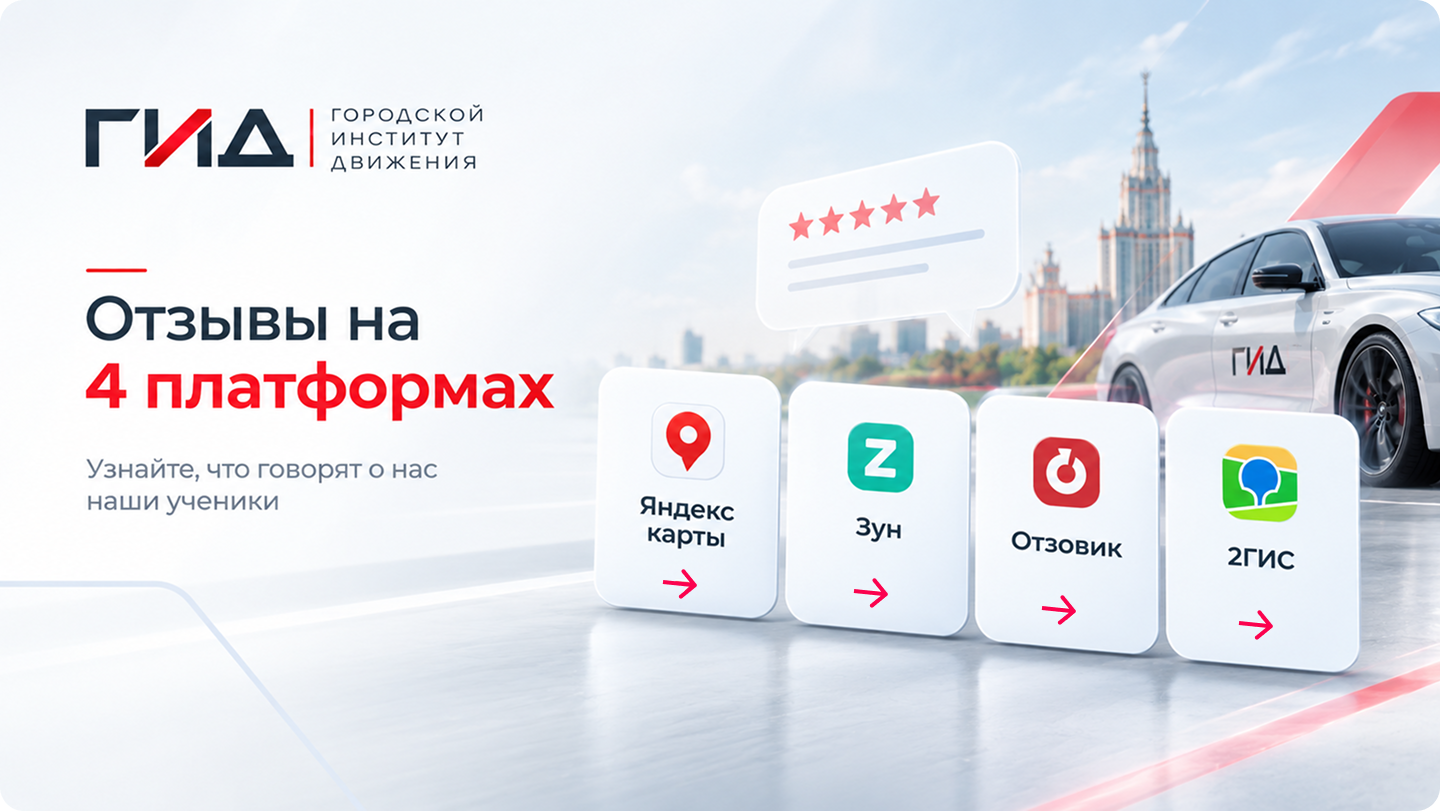
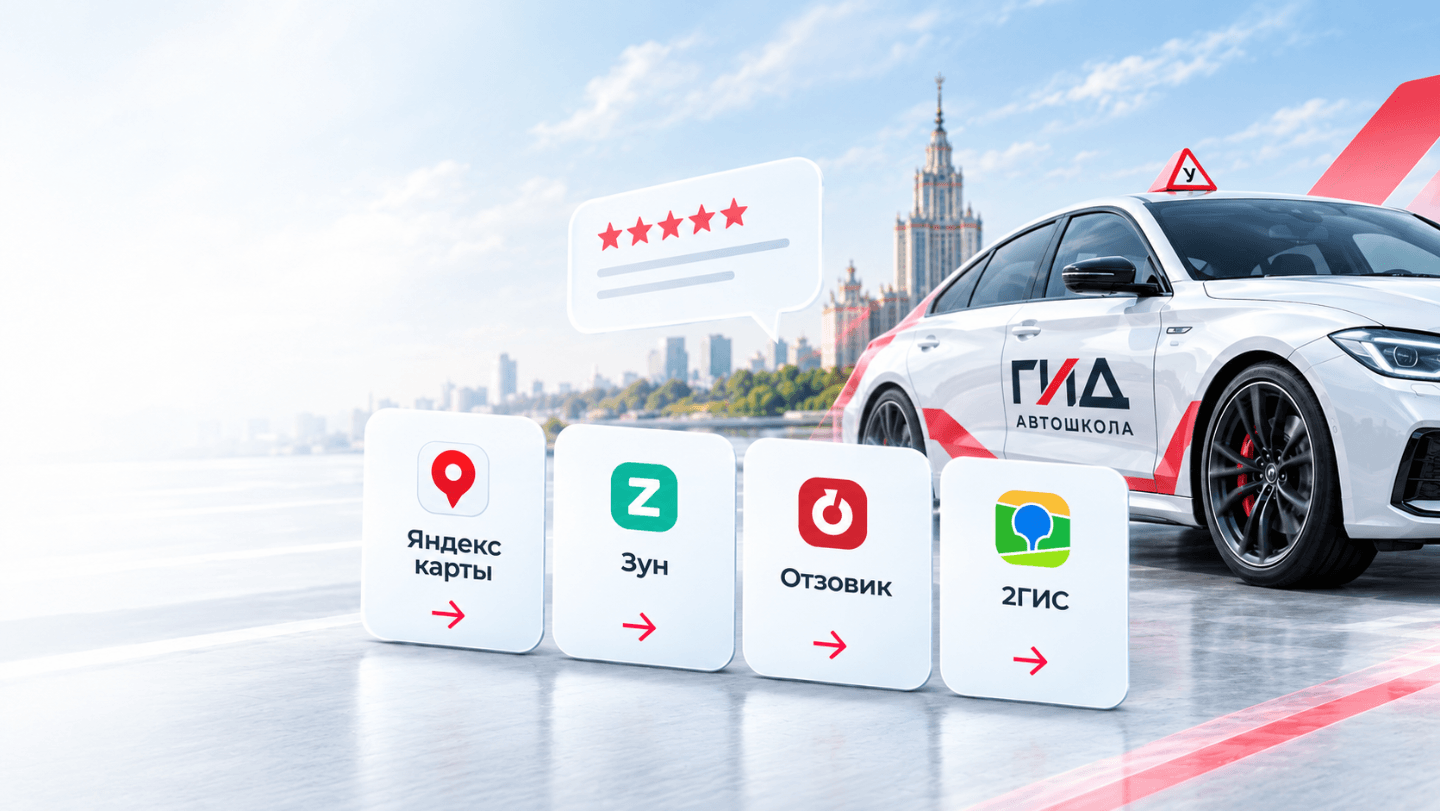
reload

diff --git a/index.html b/index.html
@@ -96,8 +96,18 @@
             </div>
           </div>
         </div>
-        <div class="ncontainer mb-100">
-          <div class="soc"></div>
+        <div class="soc-back mb-100">
+          <div class="ncontainer">
+            <div class="soc">
+              <div class="soc-img"><img src="images/logo-big.svg" alt="logo"></div>
+              <div class="soc-title">Подпишитесь на наши соц сети и получите <span>гарантированную скидку </span></div>
+              <div class="soc-btns"><a class="soc-btns__link" href="#"><img src="images/tg-icon.svg" alt="tg"><span>Telegram</span></a>
+                <div class="line"></div><a class="soc-btns__link" href="#"><img src="images/insta-icon.svg" alt="Instagram"><span>Instagram</span></a>
+                <div class="line"></div><a class="soc-btns__link" href="#"><img src="images/vk-icon.svg" alt="VK"><span>VK</span></a>
+                <div class="line"></div><a class="soc-btns__link" href="#"><img src="images/tw-icon.svg" alt="Twitter"><span>Twitter</span></a>
+              </div>
+            </div>
+          </div>
         </div>
         <div class="why__back mb-100">
           <div class="ncontainer">
@@ -664,8 +674,15 @@
             </div>
           </div>
         </div>
-        <div class="ncontainer mb-100">
-          <div class="reviews">     </div>
+        <div class="reviews mb-100">
+          <div class="ncontainer">
+            <div class="reviews-wrap"> 
+              <div class="soc-img"><img src="images/logo-big.svg" alt="logo"></div>
+              <div class="soc-title">Отзывы на<br><span>4 платформах  </span></div>
+              <div class="soc-desc">
+                 Узнайте, что говорят<br>о нас наши ученики</div>
+            </div>
+          </div>
         </div>
         <div class="ncontainer mb-100">
           <div class="banner-label__wrap">
